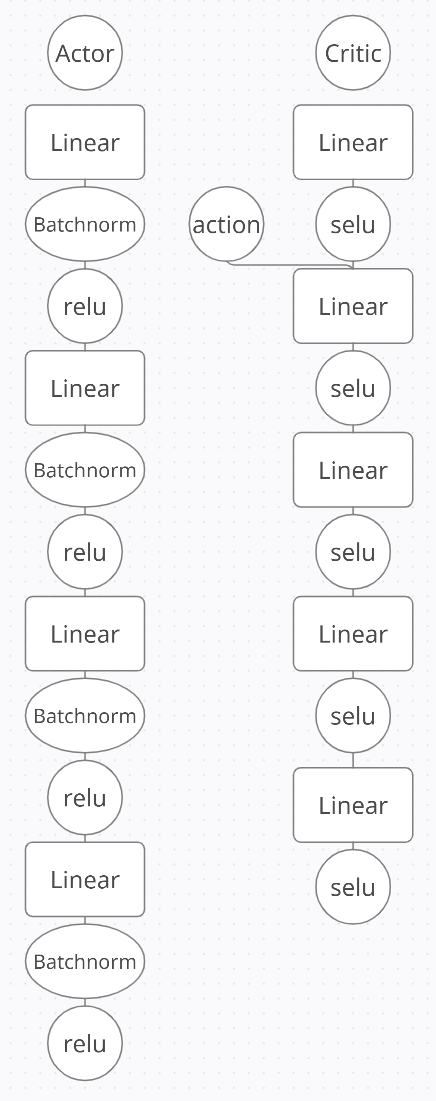
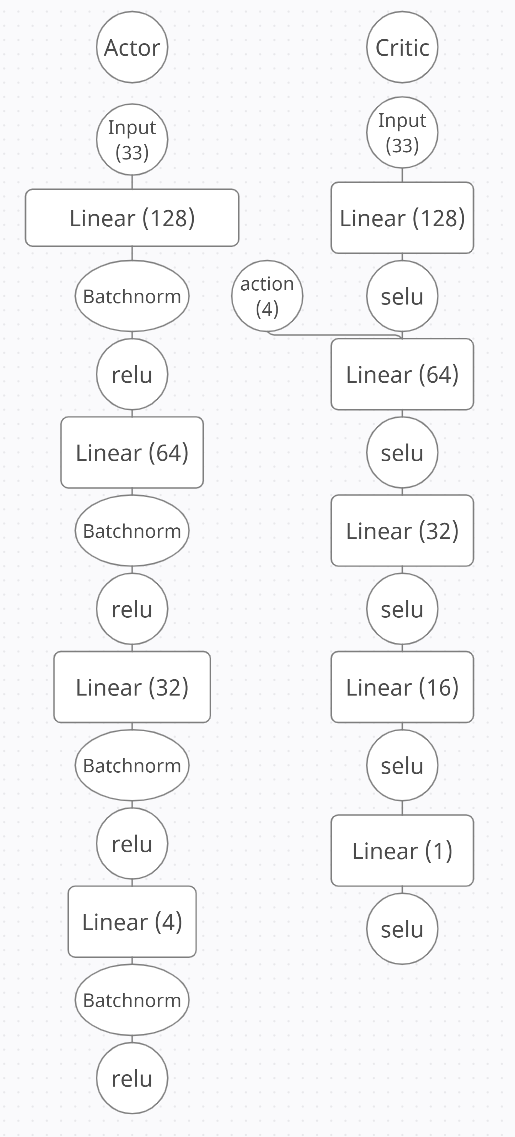
adapted report

diff --git a/Report.md b/Report.md
@@ -25,9 +25,11 @@ In order to solve the 'explore / exploit' issue, the authors of the paper also i
 
 
 # Model
-Fully connected layers are used for both actor and critic networks. 
+Here is a diagram of the general architecture for both the Actor and the Critic Networks:
 
 ![](https://github.com/pascalbehnel/drlnd-continuous-control/blob/main/model_layout.PNG?raw=true)
+
+
 
 
 
